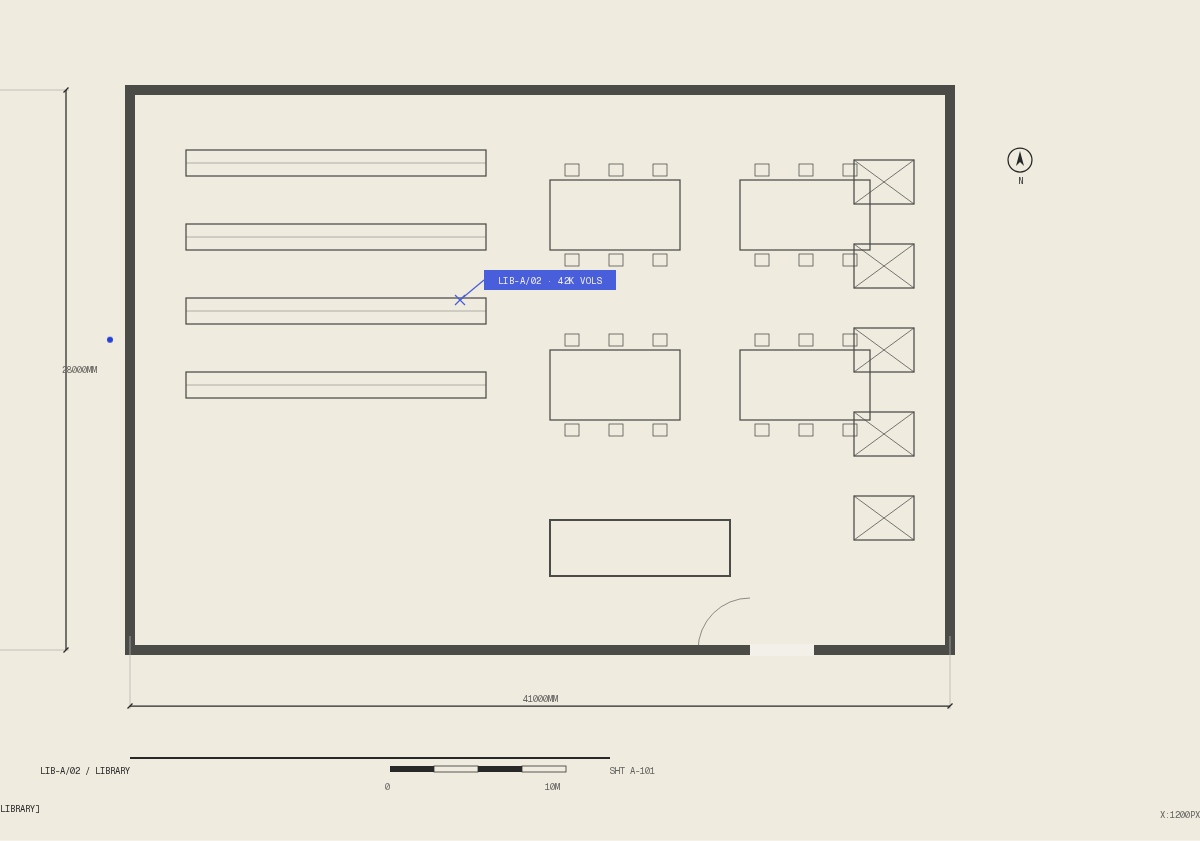
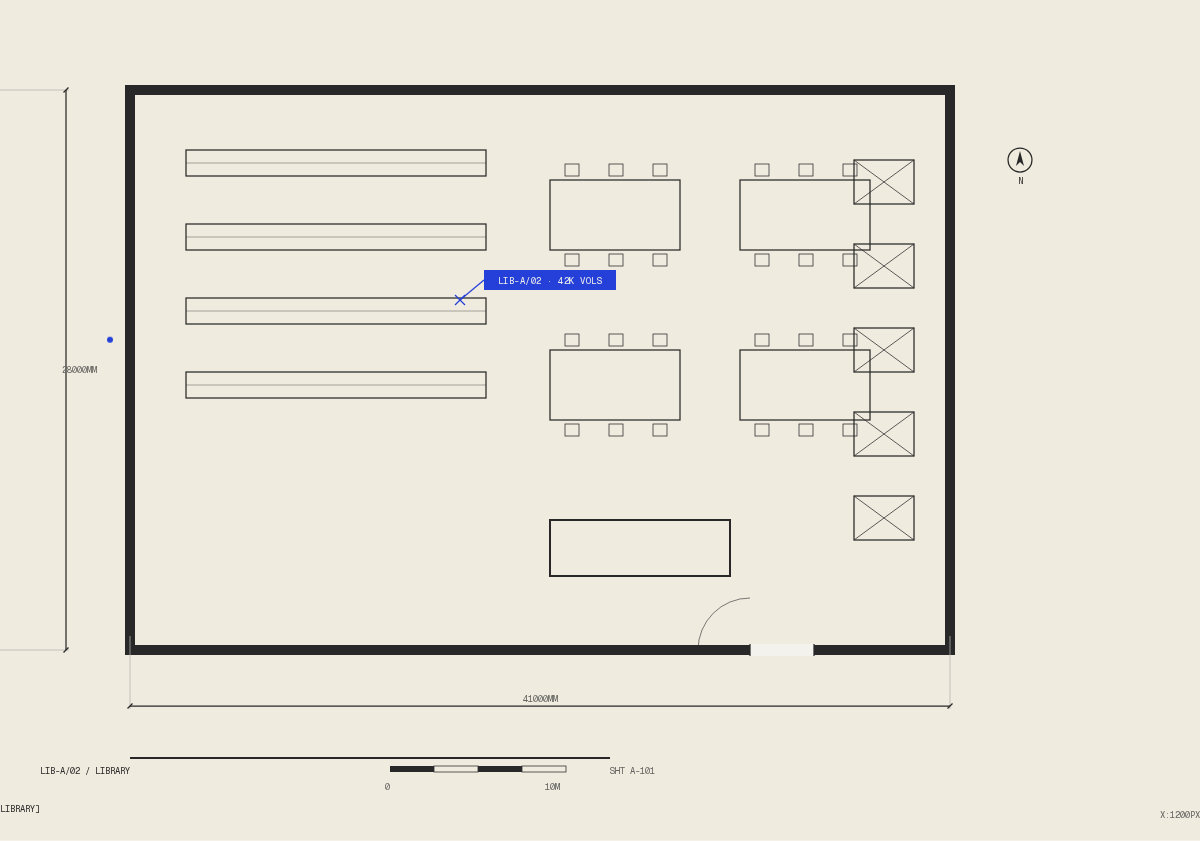
fix(r359): plan openings read correctly (opacity wrapper removed), jamb ticks, rear cross-aisle

Changed region(s): [[0.0925, 0.0927, 0.8017, 0.8038], [0.4008, 0.3092, 0.5242, 0.371]]

diff --git a/shared/art/scenes/plans.ts b/shared/art/scenes/plans.ts
@@ -123,11 +123,19 @@ function north(x: number, y: number): ArtNode {
   );
 }
 
-/** paper-cut opening through a poché wall (door gap) */
+/** paper-cut opening through a poché wall + jamb ticks */
 function opening(x: number, y: number, len: number, horiz: boolean, thick = XW + 2): ArtNode {
-  return horiz
-    ? rect(x, y - thick / 2, len, thick, { fill: C.paper, stroke: 'none' })
-    : rect(x - thick / 2, y, thick, len, { fill: C.paper, stroke: 'none' });
+  const t2 = XW / 2 + 1;
+  const jamb = horiz
+    ? [line(x, y - t2, x, y + t2, { stroke: C.ink, 'stroke-width': W.fine }), line(x + len, y - t2, x + len, y + t2, { stroke: C.ink, 'stroke-width': W.fine })]
+    : [line(x - t2, y, x + t2, y, { stroke: C.ink, 'stroke-width': W.fine }), line(x - t2, y + len, x + t2, y + len, { stroke: C.ink, 'stroke-width': W.fine })];
+  return g(
+    {},
+    horiz
+      ? rect(x, y - thick / 2, len, thick, { fill: C.paper, stroke: 'none' })
+      : rect(x - thick / 2, y, thick, len, { fill: C.paper, stroke: 'none' }),
+    ...jamb,
+  );
 }
 
 /* ═══════════════════ shared plan shell ══════════════════════════ */
@@ -143,9 +151,8 @@ interface PlanSpec {
 function plan(spec: PlanSpec): ArtDoc {
   const W_ = 1200, H = 840;
   const x0 = 130, y0 = 90, w = 820, h = 560;
-  const inner: ArtNode[] = [];
-  spec.draw(x0, y0, w, h, inner);
-  const nodes: ArtNode[] = [g({ opacity: 0.82 }, ...inner)];
+  const nodes: ArtNode[] = [];
+  spec.draw(x0, y0, w, h, nodes);
 
   /* dimensions: overall + one bay */
   nodes.push(dimH(x0, x0 + w, y0 + h + 56, 70, 70, { label: `${(w * 0.05).toFixed(0)}000MM` }));
@@ -175,6 +182,8 @@ function lectureHall(x0: number, y0: number, w: number, h: number, nodes: ArtNod
   nodes.push(rect(x0 + 250, y0 + 16, 320, 70, { fill: 'none', stroke: C.ink, 'stroke-width': W.med }));
   nodes.push(line(x0 + 290, y0 + 30, x0 + 530, y0 + 30, { stroke: C.ink, 'stroke-width': W.med }));
   nodes.push(label(x0 + 410, y0 + 62, 'STAGE / 80MM', { 'text-anchor': 'middle' }));
+  // rear cross-aisle
+  nodes.push(path(`M${x0 + 100} ${y0 + h - 130}H${x0 + w - 100}`, { stroke: C.hair, 'stroke-width': W.hair, 'stroke-dasharray': '6 5', fill: 'none' }));
   // tiered rows (curved)
   for (let i = 0; i < 6; i++) {
     const ry = y0 + 130 + i * 58;
